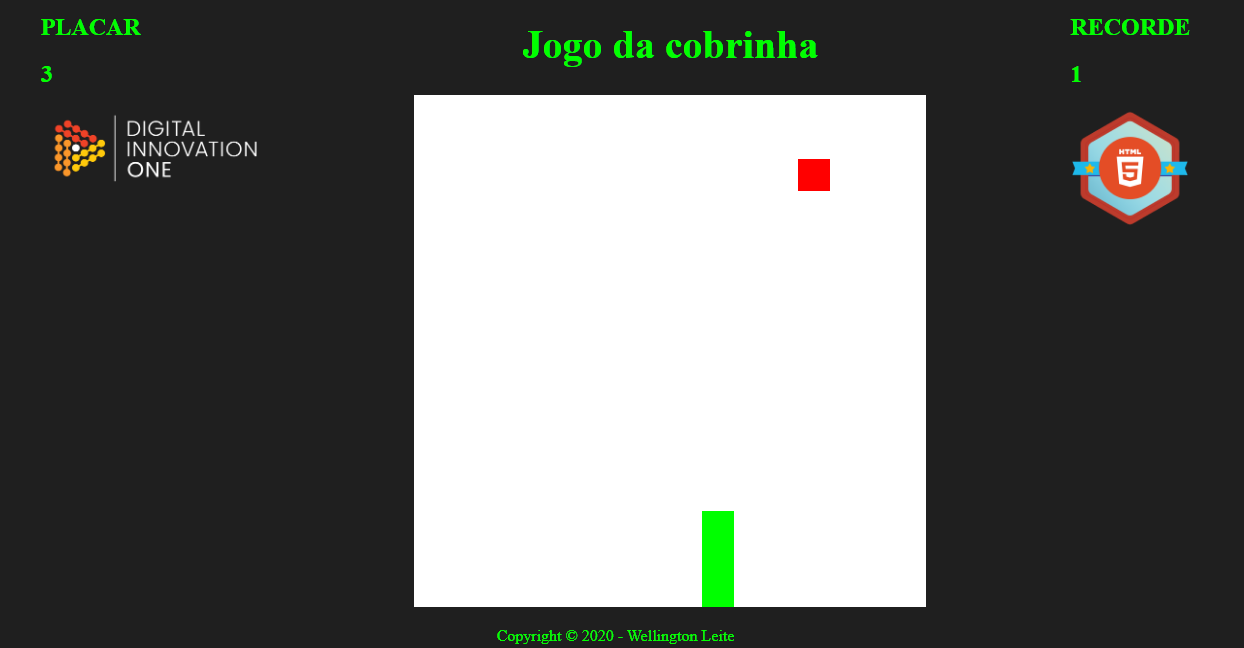
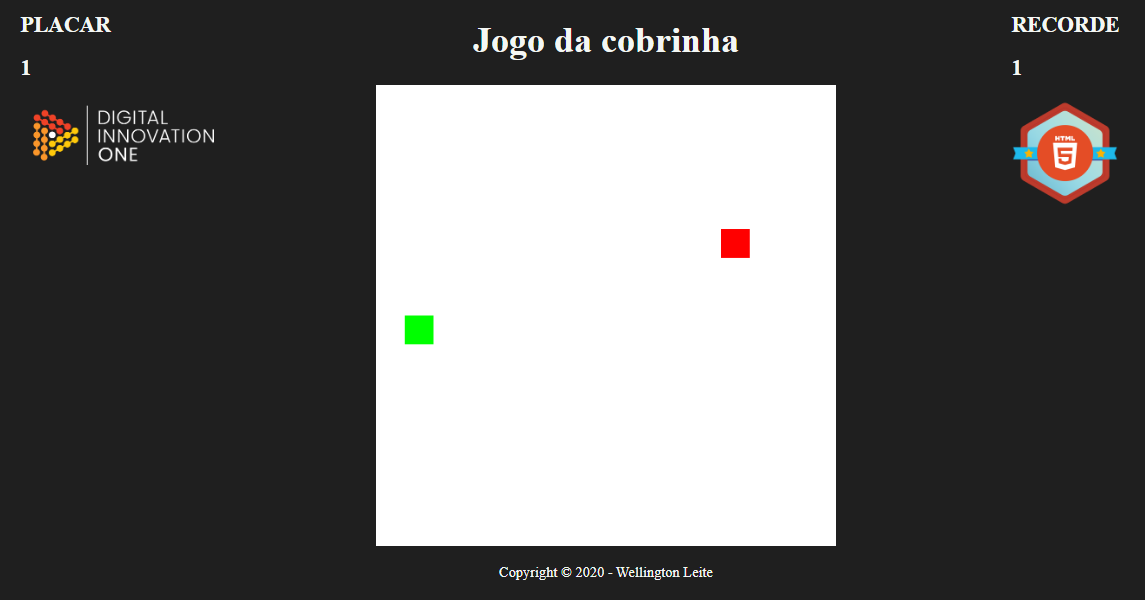
Cor da fonte

diff --git a/index.html b/index.html
@@ -10,7 +10,7 @@
   </head>
   <body>
     <div class="container">
-      <div>
+      <div class="laterais">
         <h2>PLACAR</h2>
         <div id="placar"></div>
         <img
@@ -23,7 +23,7 @@
         <h1>Jogo da cobrinha</h1>
         <canvas id="snake" width="512" height="512"></canvas>
       </div>
-      <div>
+      <div class="laterais">
         <h2>RECORDE</h2>
         <div id="recorde"></div>
         <img
@@ -33,6 +33,11 @@
         />
       </div>
     </div>
+
+    <a
+      href="https://oieduardorabelo.medium.com/javascript-set-vs-array-quando-e-como-usar-cf05a7a6ce54"
+    ></a>
+
     <footer class="container copyright">
       Copyright © 2020 - Wellington Leite
     </footer>

diff --git a/style.css b/style.css
@@ -1,13 +1,12 @@
 body {
   background-color: rgba(0, 0, 0, 0.877);
-  color: rgb(0, 255, 0);
+  color: rgb(244, 247, 244);
 }
 
 .container {
   width: 100%;
   display: flex;
   justify-content: center;
-  align-items: top;
   flex-direction: row;
 }
 
@@ -22,6 +21,10 @@ body {
 .jogo h1 {
   font-weight: bold;
   font-size: 40px;
+}
+
+.laterais {
+  width: 200px;
 }
 
 .copyright {
